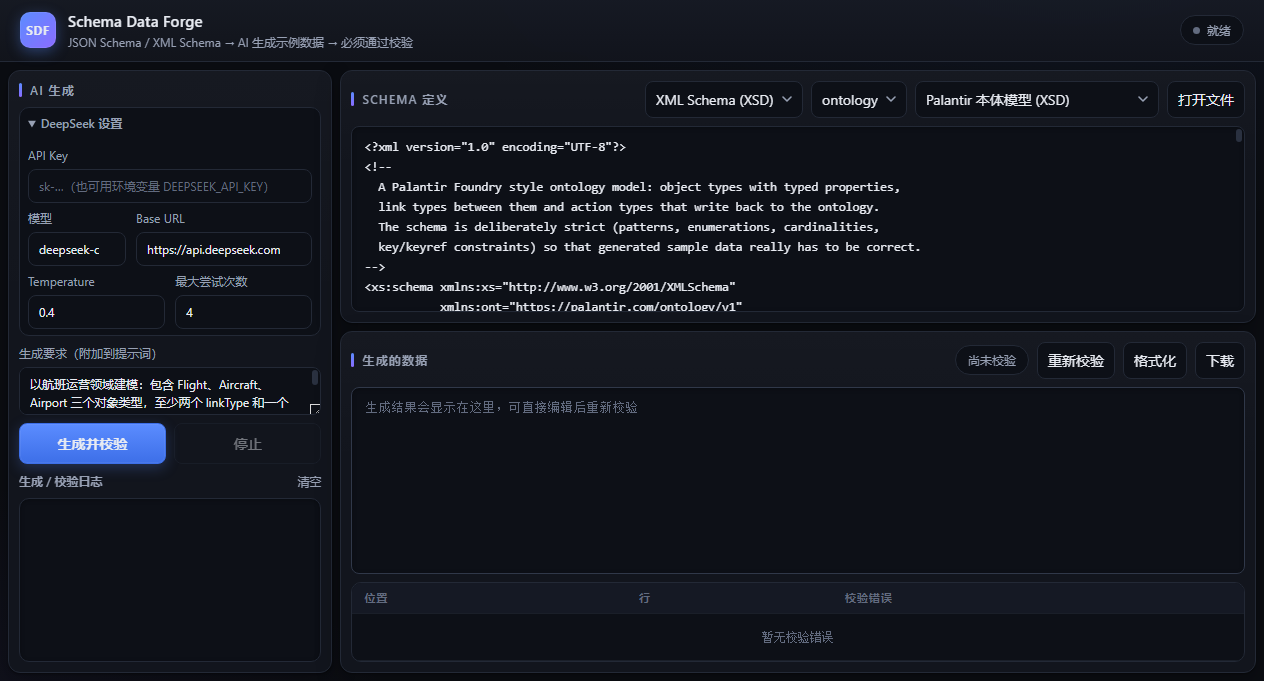
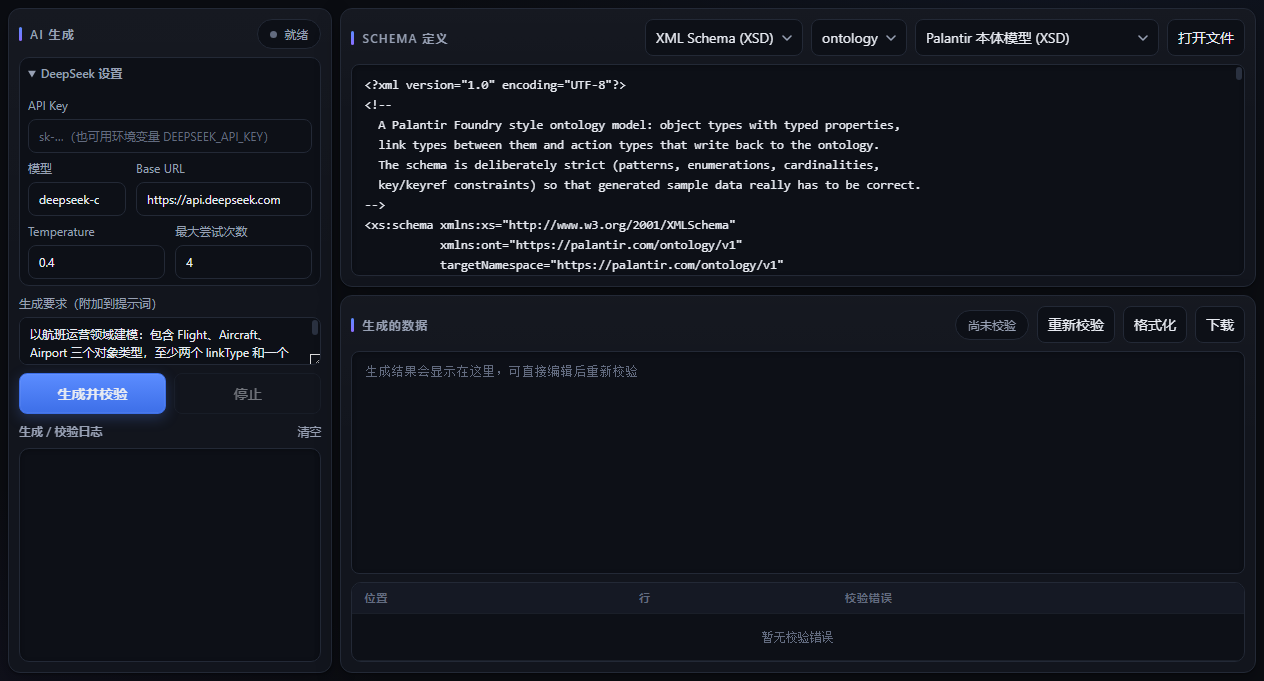
Remove the top brand bar and move the status pill into the AI pane

diff --git a/src/schema_data_forge/web/static/styles.css b/src/schema_data_forge/web/static/styles.css
@@ -59,35 +59,6 @@ body { display: flex; flex-direction: column; }
 ::-webkit-scrollbar-thumb:hover { background: #3a4356; background-clip: padding-box; }
 ::-webkit-scrollbar-corner { background: transparent; }
 
-/* ---------- top bar ---------- */
-.topbar {
-  display: flex;
-  align-items: center;
-  justify-content: space-between;
-  padding: 10px 20px;
-  border-bottom: 1px solid var(--border);
-  background: linear-gradient(180deg, rgba(23, 27, 37, 0.9), rgba(18, 21, 29, 0.9));
-  backdrop-filter: blur(6px);
-}
-
-.brand { display: flex; align-items: center; gap: 12px; }
-
-.logo {
-  display: grid;
-  place-items: center;
-  width: 36px;
-  height: 36px;
-  border-radius: 10px;
-  background: linear-gradient(135deg, var(--accent), var(--violet));
-  box-shadow: 0 0 0 1px rgba(255, 255, 255, 0.08) inset, 0 4px 14px rgba(91, 140, 255, 0.35);
-  font-weight: 700;
-  font-size: 12px;
-  letter-spacing: 0.5px;
-}
-
-.topbar h1 { margin: 0; font-size: 15px; font-weight: 600; letter-spacing: 0.01em; }
-.topbar p { margin: 0; font-size: 12px; color: var(--text-dim); }
-
 .pill {
   display: inline-flex;
   align-items: center;

diff --git a/src/schema_data_forge/web/static/index.html b/src/schema_data_forge/web/static/index.html
@@ -7,23 +7,13 @@
   <link rel="stylesheet" href="/static/styles.css" />
 </head>
 <body>
-  <header class="topbar">
-    <div class="brand">
-      <span class="logo">SDF</span>
-      <div>
-        <h1>Schema Data Forge</h1>
-        <p>JSON Schema / XML Schema → AI 生成示例数据 → 必须通过校验</p>
-      </div>
-    </div>
-    <div class="topbar-status">
-      <span id="connection" class="pill pill-idle">就绪</span>
-    </div>
-  </header>
-
   <main class="layout">
     <!-- 左：AI 面板 -->
     <section class="pane pane-ai">
-      <h2>AI 生成</h2>
+      <div class="pane-head">
+        <h2>AI 生成</h2>
+        <span id="connection" class="pill pill-idle">就绪</span>
+      </div>
 
       <details class="config" open>
         <summary>DeepSeek 设置</summary>
